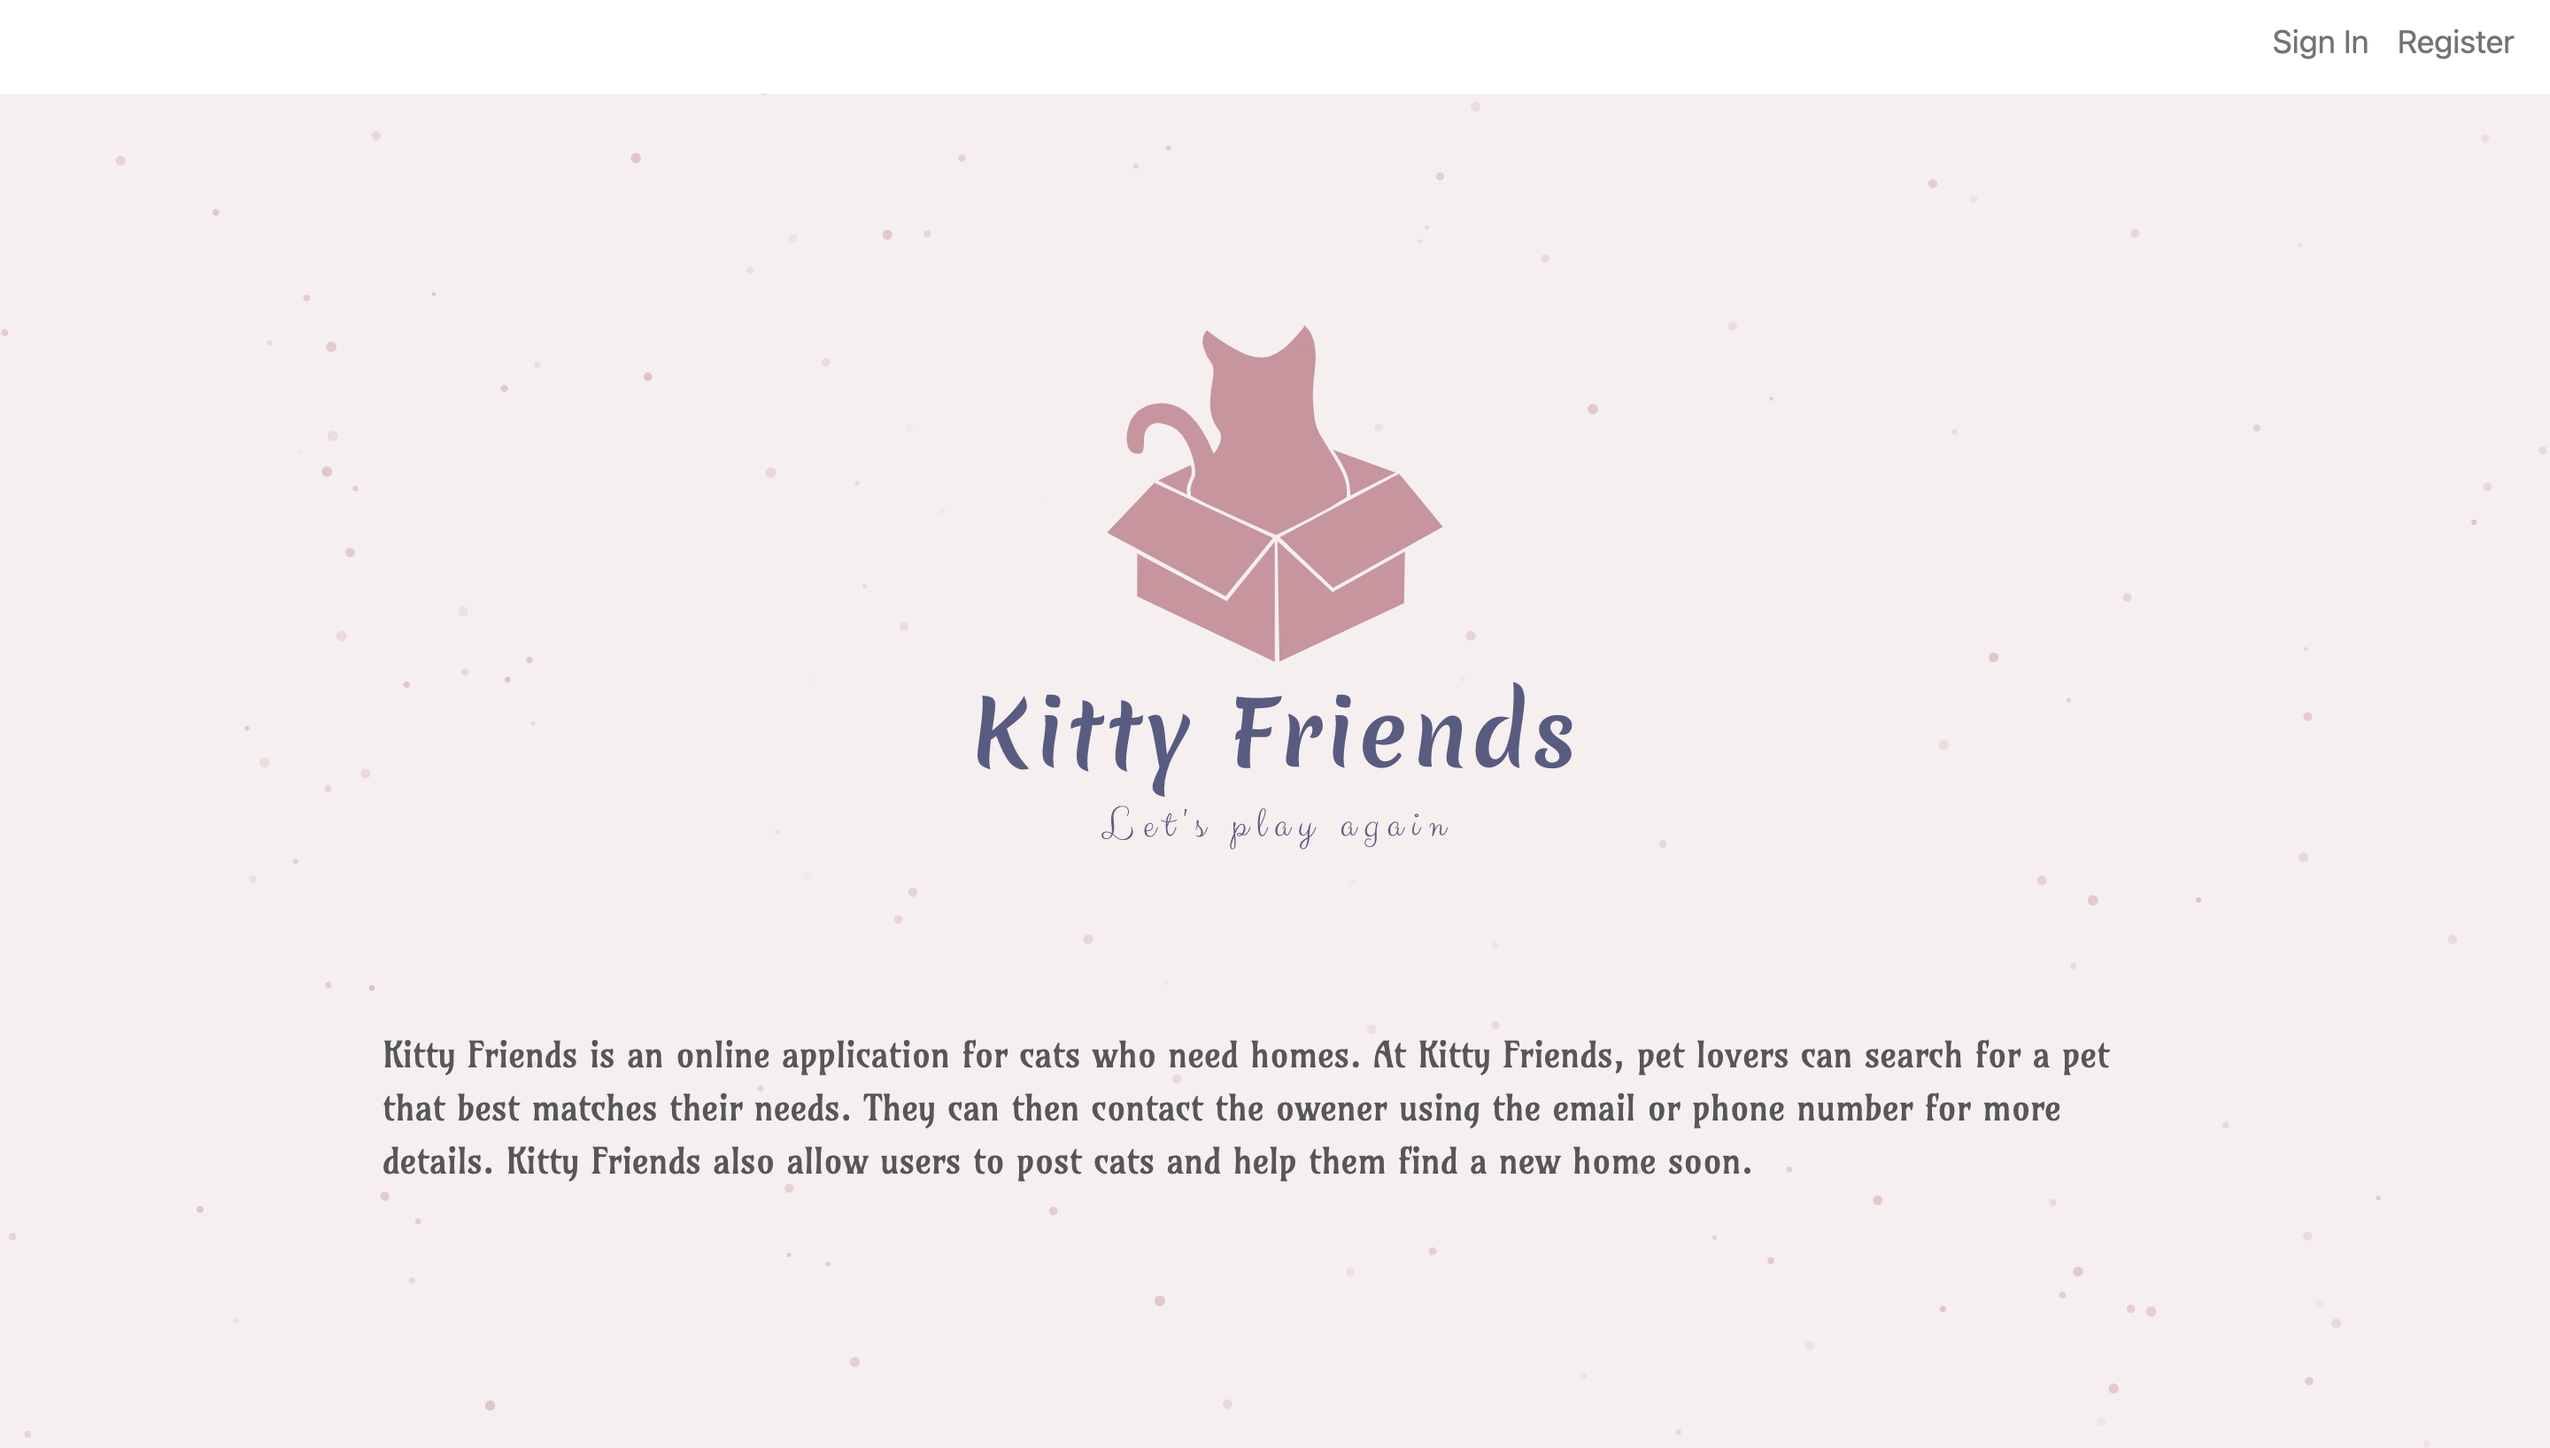
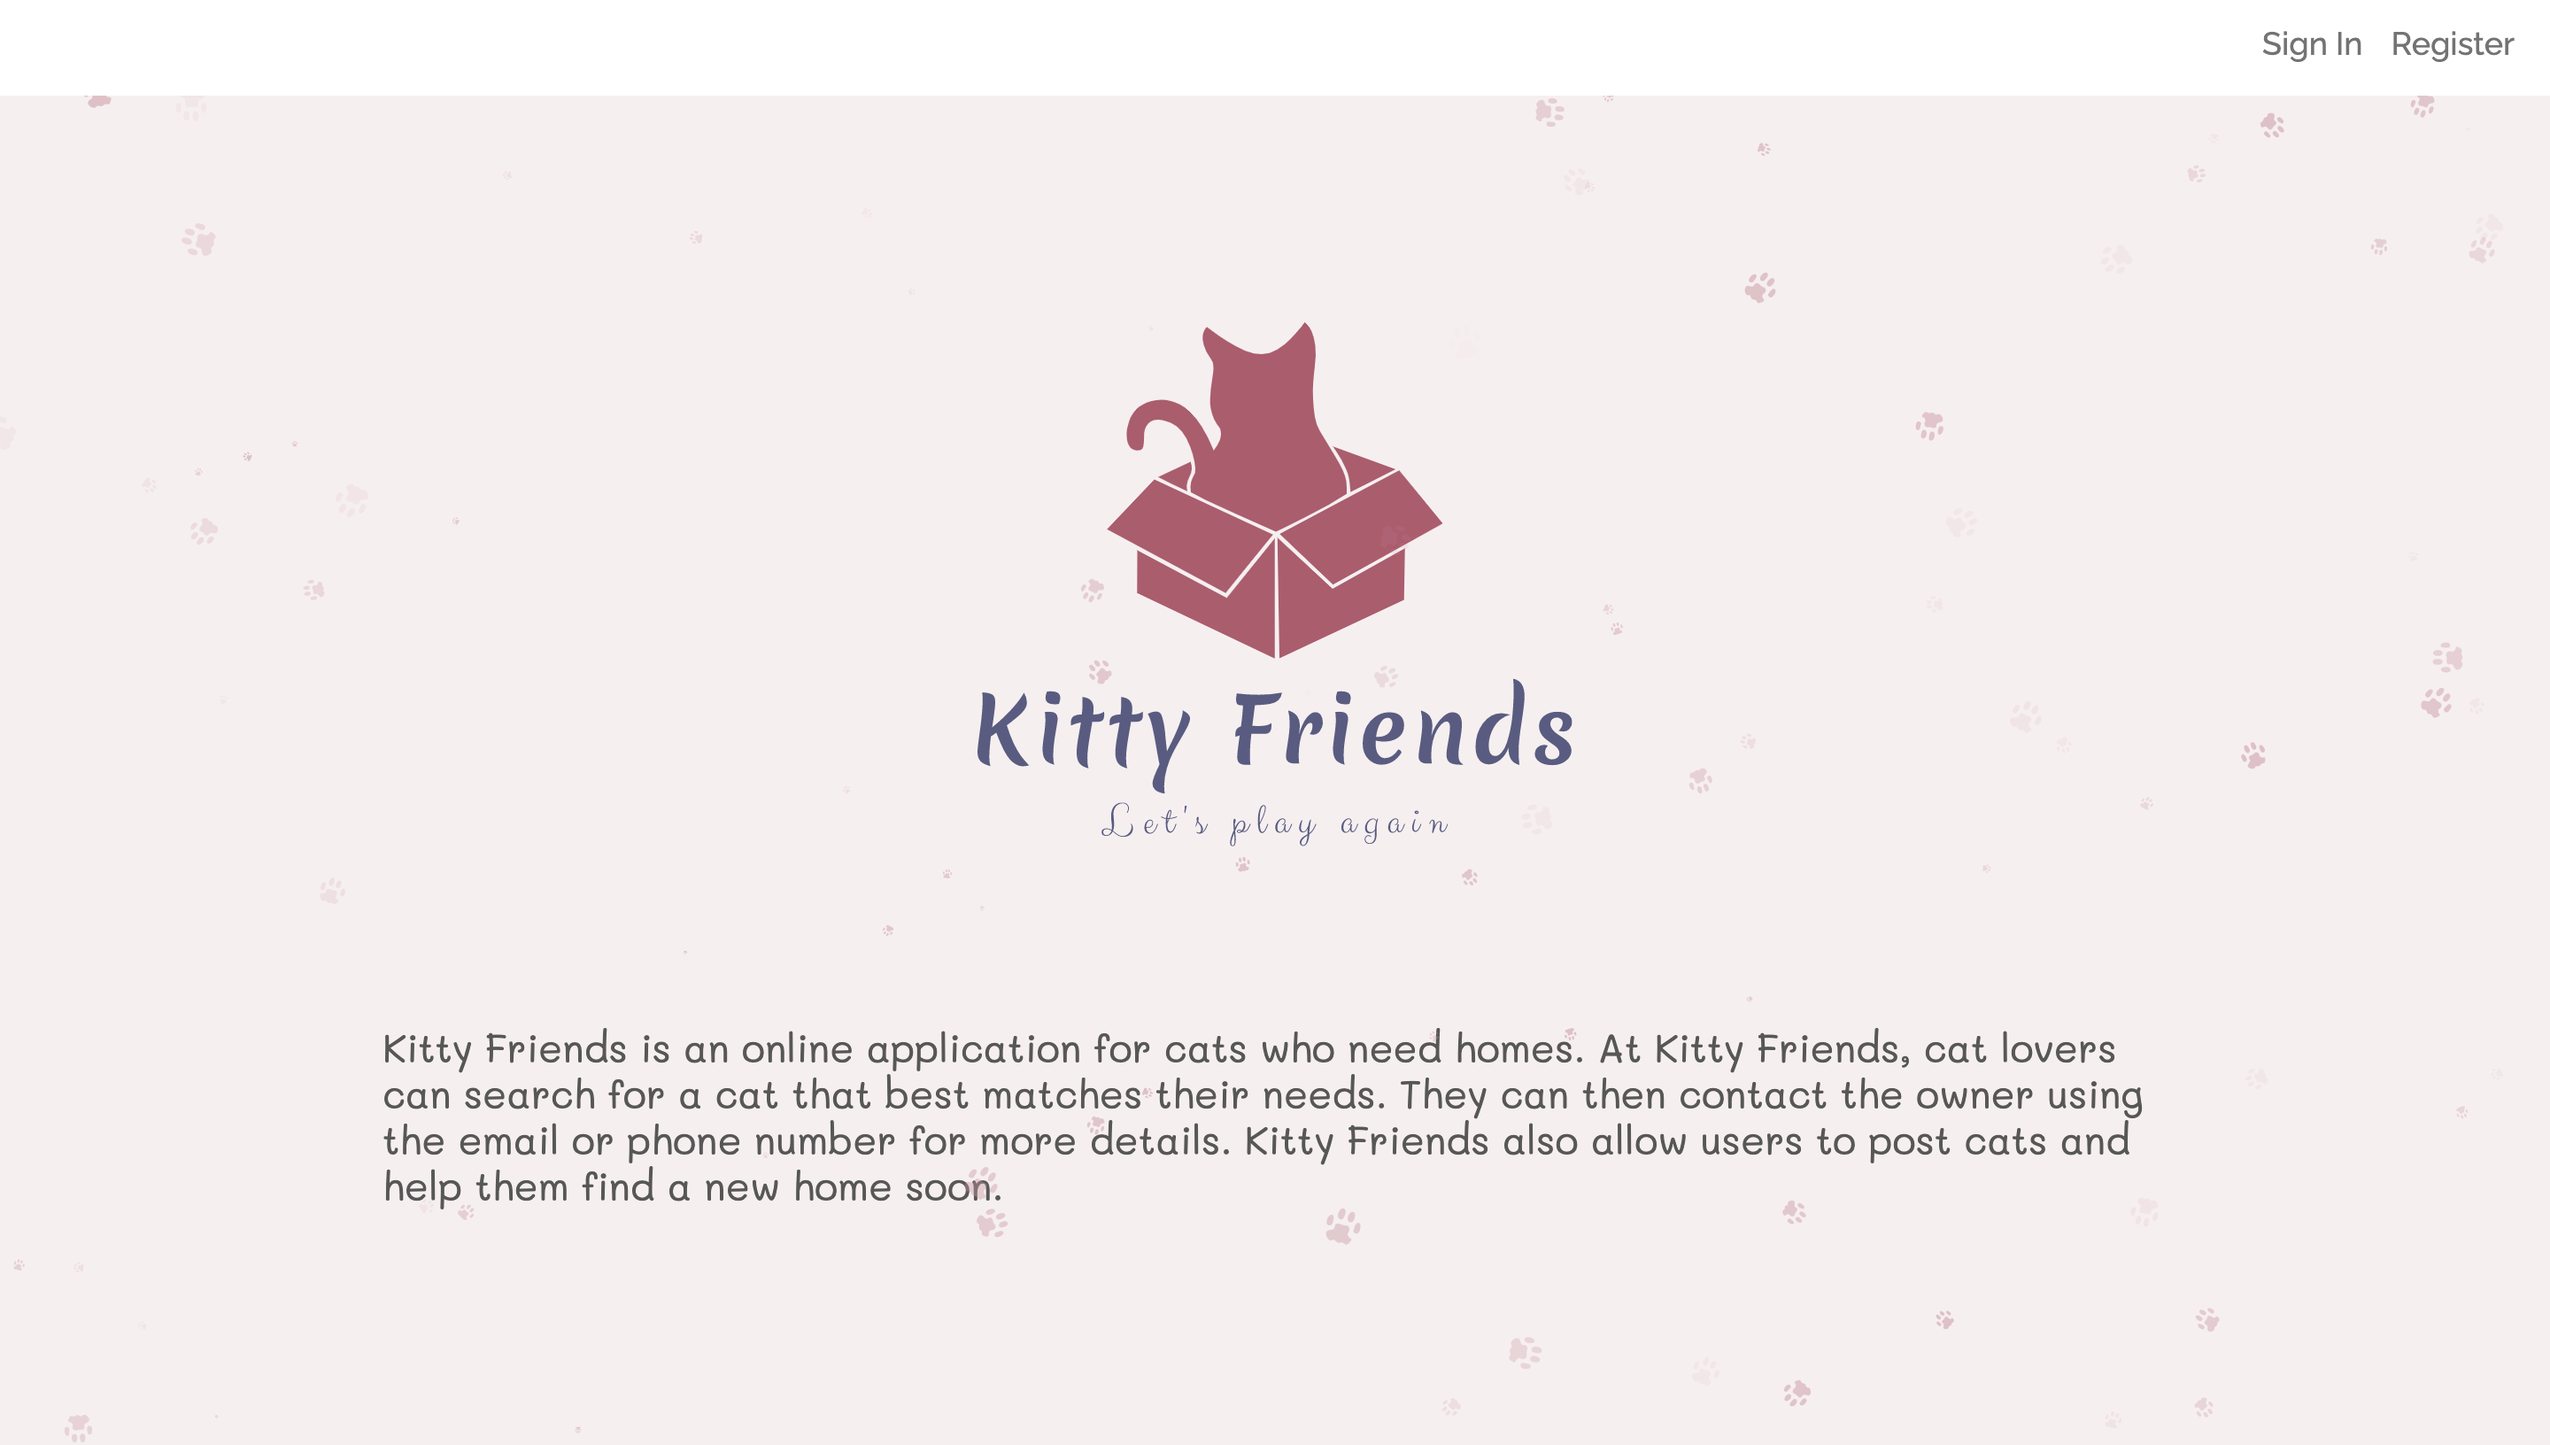
fixing small errors and updating readme

diff --git a/frontend/src/Components/Card.js b/frontend/src/Components/Card.js
@@ -17,8 +17,8 @@ export default function Card(props) {
   const [isSaved, setIsSaved] = useState(props.isSaved);
 
   async function saveCat(evt) {
-    setShowActionLoader(true);
     if (!evt.key || evt.key === 'Enter') {
+      setShowActionLoader(true);
       const resRaw = await fetch('/saveCat', {
         method: 'POST',
         headers: {
@@ -37,8 +37,8 @@ export default function Card(props) {
   }
 
   async function unSaveCat(evt) {
-    setShowActionLoader(true);
     if (!evt.key || evt.key === 'Enter') {
+      setShowActionLoader(true);
       const resRaw = await fetch('/unsaveCat', {
         method: 'POST',
         headers: {
@@ -61,8 +61,8 @@ export default function Card(props) {
   }
 
   async function deleteCat(evt) {
-    setShowActionLoader(true);
     if (!evt.key || evt.key === 'Enter') {
+      setShowActionLoader(true);
       const resRaw = await fetch('/deletePost', {
         method: 'POST',
         headers: {

diff --git a/frontend/src/Pages/LandingPage.js b/frontend/src/Pages/LandingPage.js
@@ -107,7 +107,7 @@ export default function LandingPage() {
           <img id="kitty-friends-logo" src={logo} alt="Kitty Friends Logo" />
           <h1 id="landing-page-text">
             Kitty Friends is an online application for cats who need homes. At
-            Kitty Friends, pet lovers can search for a pet that best matches
+            Kitty Friends, cat lovers can search for a cat that best matches
             their needs. They can then contact the owner using the email or
             phone number for more details. Kitty Friends also allow users to
             post cats and help them find a new home soon.

diff --git a/README.md b/README.md
@@ -15,6 +15,30 @@ Link: https://kitty-friends-app.herokuapp.com/
 Xingyu Lai: https://xingyu711.github.io/ <br>
 Hao Yin: https://pages.github.ccs.neu.edu/calvinyin/calvinyin.github.io/
 
+### Obejectives for Project 4:
+
+Improve the project 3 website on the design, accessibility and usability.
+
+### Features Improved/Added:
+
+1. Usability:
+
+- Using Toasts to show success/error messages
+- Add Tooltips for action icons (save/unsave/delete icon)
+- Add Loading Spinner
+
+2. Accessibility:
+
+- Control the app using keyboard
+- Add landmark roles
+- Sufficient color contrast
+- Test using Axe
+
+3. Design:
+
+- Typograph and color palatte
+- Proper spacing and alignment
+
 ### Screenshots:
 
 1. Landing page that introduces our app.
@@ -57,18 +81,18 @@ Hao Yin: https://pages.github.ccs.neu.edu/calvinyin/calvinyin.github.io/
 4. Configs for the frontend:
 
 - Go to the frontend folder `cd frontend`
-- Adding the followin credentials for Amazon S3 as environmental variables in your terminal: ` S3_ACCESS_KEY_ID, S3_ACCESS_KEY`
+- Adding the followin credentials for Amazon S3 as environmental variables in your terminal: ` REACT_S3_ACCESS_KEY_ID, REACT_S3_ACCESS_KEY`
 
 - Run `yarn install` to install all the dependencies for the frontend
 - Run `yarn start` to start the frontend server
 
 ### Video Demo:
 
-https://drive.google.com/file/d/1pwfLkbC89aSV5b6hXObRevv8ctxOBVcM/view?usp=sharing
+https://drive.google.com/file/d/1k5YM0h2Ku9_YkErx3vLPj8nrEVSDf1Eb/view?usp=sharing
 
 ### Slides:
 
-https://docs.google.com/presentation/d/1oHSIaTM5l8kA-42WVPsfLQjQN2KlMi3PxGfd9cCcUD4/edit?usp=sharing
+https://docs.google.com/presentation/d/1n0dkxiRRIWK5pN7TZb7aW0O4qd-FBt_7v-4QnZmtfJI/edit?usp=sharing
 
 ### Course:
 
